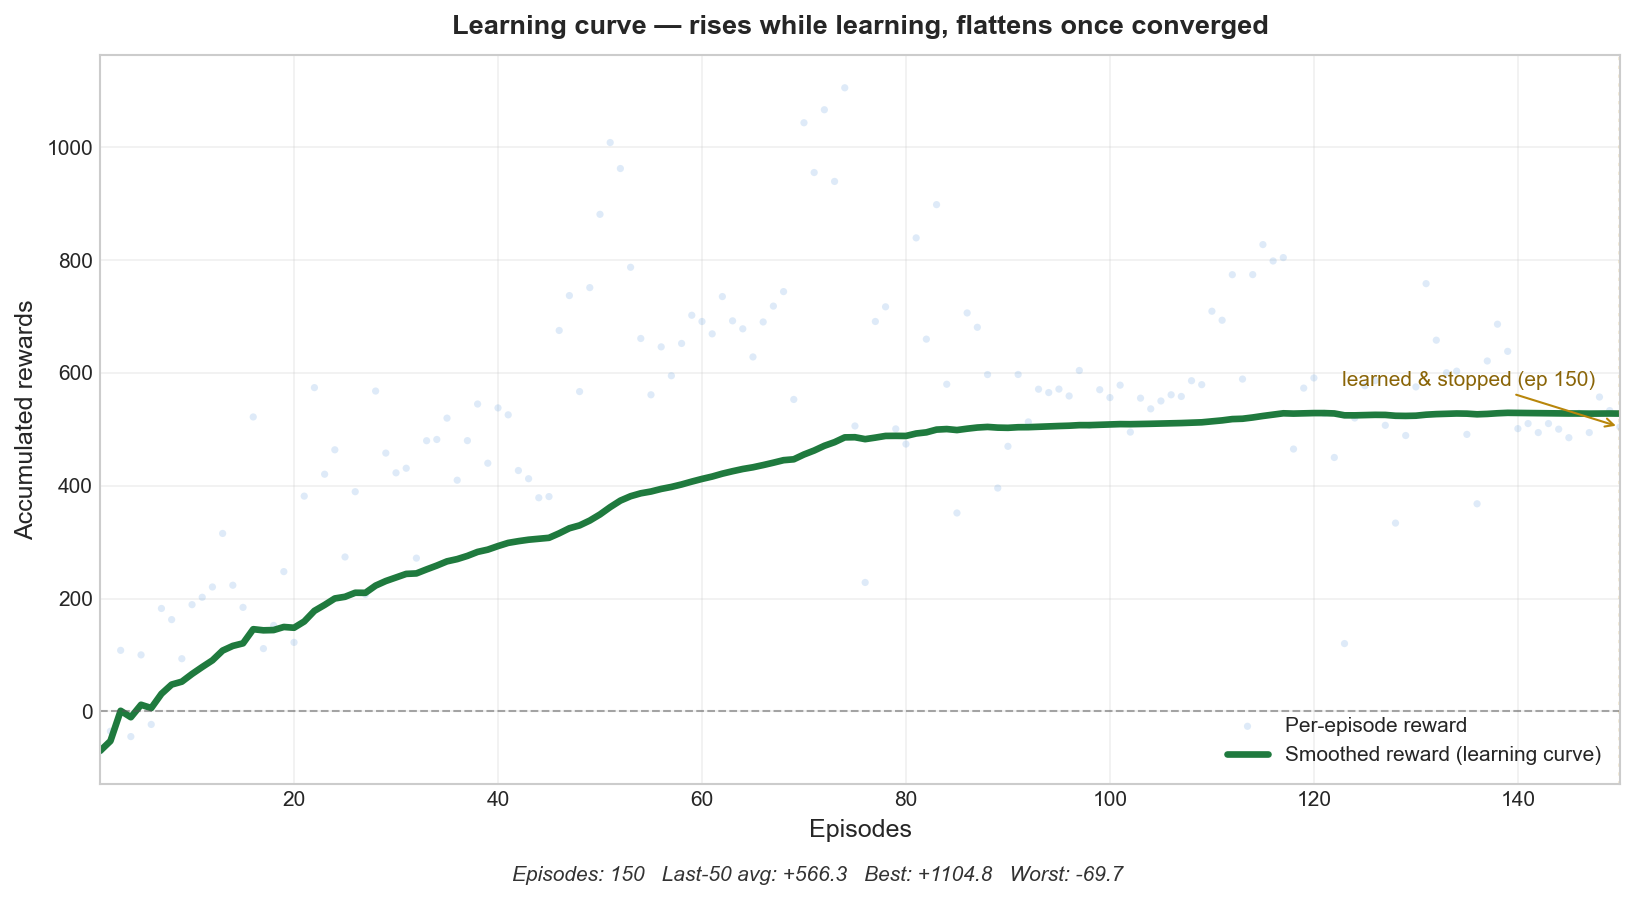
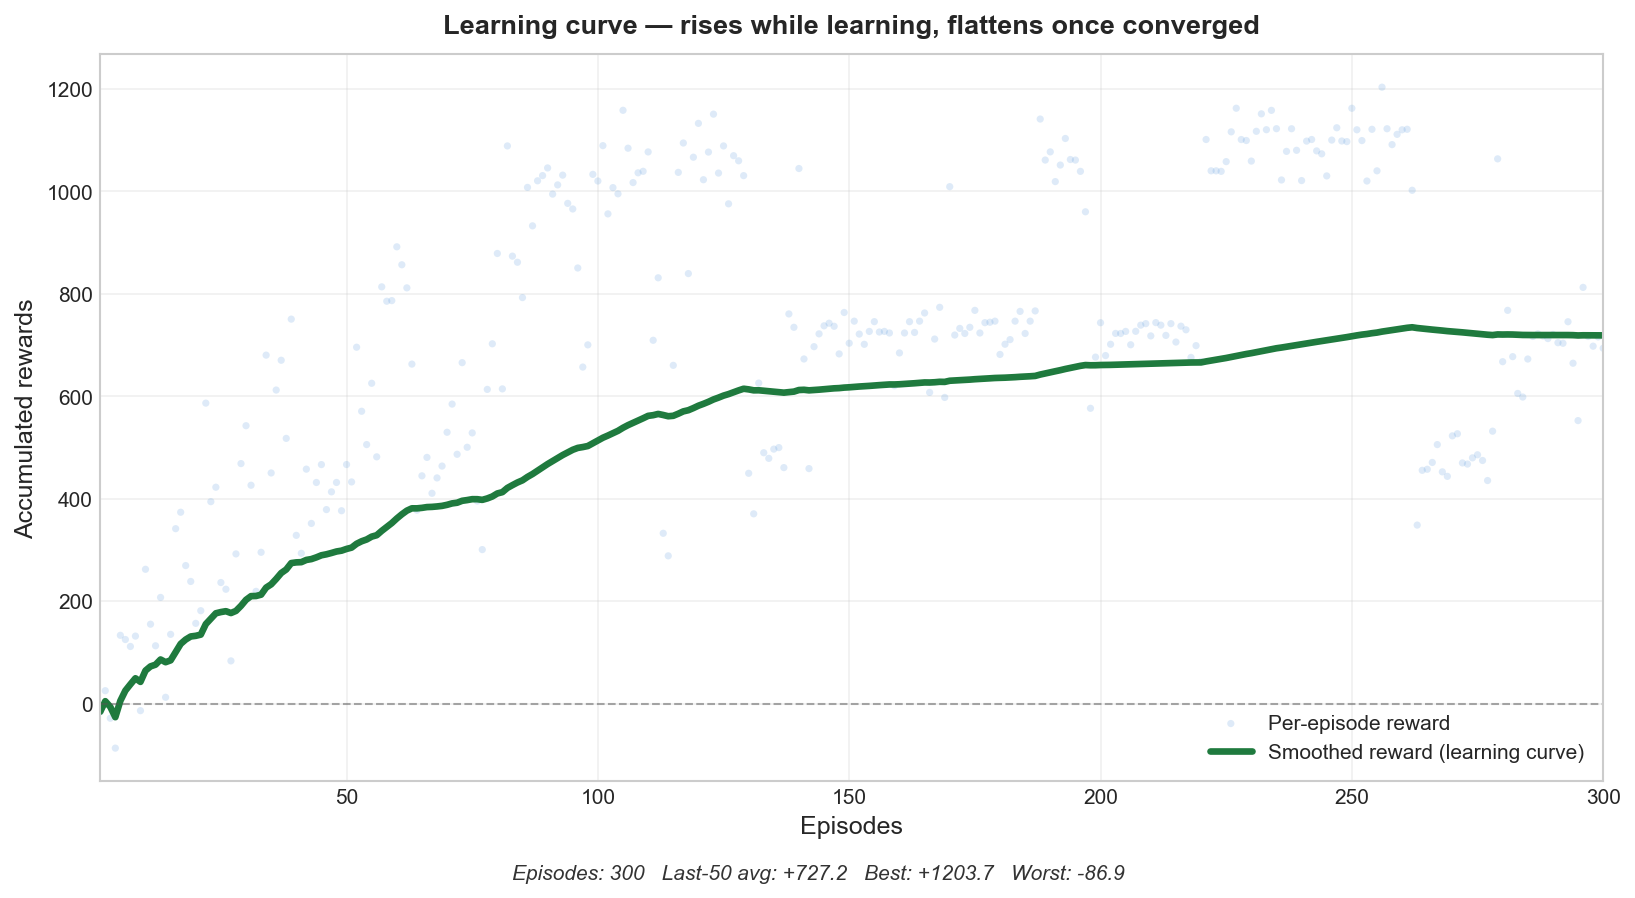
Update training results and code

diff --git a/view.py b/view.py
@@ -31,9 +31,8 @@ ACTION_COLORS = {
 CROP_COLORS = {C_WHEAT: WHEAT, C_CARROT: CARROT, C_PUMPKIN: PUMPKIN}
 
 
-# ---------------------------------------------------------------------
 # Rendering
-# ---------------------------------------------------------------------
+
 class _Popup:
     __slots__ = ("text", "x", "y", "color", "life", "max_life")
 
@@ -191,10 +190,8 @@ class Renderer:
             (WINDOW_W - 150, 28))
 
 
-# ---------------------------------------------------------------------
-# GIF recorder: two buffers — episode 1 (early) and the most recent
-# periodic episode (late). Saved together so you see the contrast.
-# ---------------------------------------------------------------------
+
+# GIF recorder
 class GifRecorder:
     STAMP_HEIGHT = 20
 
@@ -289,12 +286,6 @@ class GifRecorder:
         return True
 
 
-# ---------------------------------------------------------------------
-# Learning curve: rolling-mean reward per episode.
-#   * line rises  -> agent is improving
-#   * line flat   -> agent has converged (no more learning to do)
-#   * line noisy  -> still exploring
-# ---------------------------------------------------------------------
 def plot_rewards(
     rewards: list[float],
     save_path: str = "training_progress.png",
@@ -303,7 +294,6 @@ def plot_rewards(
 ) -> None:
     import matplotlib
     if not show:
-        # Use a non-GUI backend so headless runs don't block.
         matplotlib.use("Agg")
     import matplotlib.pyplot as plt
 
@@ -313,11 +303,6 @@ def plot_rewards(
         return
     ep = np.arange(1, n + 1)
 
-    # Running mean from episode 1 onwards: smoothed[i] = mean(r[:i+1]).
-    # By construction this is monotonic-ish — it can only move as much as a
-    # single new episode pulls the mean — so the curve rises while the
-    # agent improves, then flattens as each new episode has a smaller
-    # effect on the accumulated average.
     smoothed = np.cumsum(r) / np.arange(1, n + 1)
 
     plt.style.use("seaborn-v0_8-whitegrid")

diff --git a/game.py b/game.py
@@ -9,7 +9,6 @@ from __future__ import annotations
 import math
 from typing import TypedDict
 
-# ---- Window / layout ----
 WINDOW_W, WINDOW_H = 640, 540
 HUD_H = 50
 CELL_SIZE = 90
@@ -20,7 +19,6 @@ FIELD_X = (WINDOW_W - FIELD_W) // 2
 FIELD_Y = HUD_H + 25
 FPS = 30
 
-# ---- Colors ----
 BG = (34, 42, 50)
 GRASS = (95, 145, 65)
 PLOWED = (115, 75, 45)
@@ -33,27 +31,22 @@ PUMPKIN = (222, 120, 30)
 HUD_BG = (40, 50, 60)
 HUD_TEXT = (240, 240, 220)
 
-# ---- Cell states ----
 S_EMPTY, S_PLOWED, S_SEEDED, S_GROWING, S_READY, S_WITHERED = range(6)
 
-# ---- Crops ----
 C_NONE, C_WHEAT, C_CARROT, C_PUMPKIN = range(4)
 GROW_STEPS = {C_WHEAT: 5, C_CARROT: 8, C_PUMPKIN: 12}
 PRICE = {C_WHEAT: 10, C_CARROT: 20, C_PUMPKIN: 40}
 
-# ---- Game balance ----
-WITHER_STEPS = 40    # how long a READY crop waits before rotting
+WITHER_STEPS = 40
 PLANT_COST = 5
 START_MONEY = 50
 
-# ---- Actions ----
 A_PLOW, A_WHEAT, A_CARROT, A_PUMPKIN, A_WATER, A_HARVEST, A_MOVE = range(7)
 NUM_ACTIONS = 7
 ACTION_NAMES = ["PLOW", "PLANT_WHEAT", "PLANT_CARROT",
                 "PLANT_PUMPKIN", "WATER", "HARVEST", "MOVE"]
 _ACTION_TO_CROP = {A_WHEAT: C_WHEAT, A_CARROT: C_CARROT, A_PUMPKIN: C_PUMPKIN}
 
-# ---- Rewards ----
 R_SUCCESS = 1
 R_ILLEGAL = -1
 R_WITHER = -5
@@ -100,7 +93,6 @@ class Farm:
                 elif c.state == S_GROWING:
                     c.grow += 1
                     need = GROW_STEPS[c.crop]
-                    # Watering shortens grow time by 1 step.
                     if (c.watered and c.grow >= need - 1) or c.grow >= need:
                         c.state = S_READY
                         c.ready = 0
@@ -114,7 +106,7 @@ class Farm:
 
 
 class Farmer:
-    TRAVEL_TIME = 0.4  # seconds to reach any target cell
+    TRAVEL_TIME = 0.4
 
     def __init__(self) -> None:
         self.reset()

diff --git a/main.py b/main.py
@@ -28,7 +28,7 @@ MAX_ANIMATED_STEPS = 30
 
 # ---- Early stopping ----
 ES_WINDOW = 40       # rolling-mean window
-ES_MIN_EP = 100      # don't stop before this
+ES_MIN_EP = 301      # don't stop before this
 ES_PATIENCE = 50     # no-improvement episodes before stopping
 ES_MIN_DELTA = 2.0
 

diff --git a/agent.py b/agent.py
@@ -1,4 +1,3 @@
-"""Q-Learning agent. Tabular, ε-greedy, Bellman update."""
 
 from __future__ import annotations
 